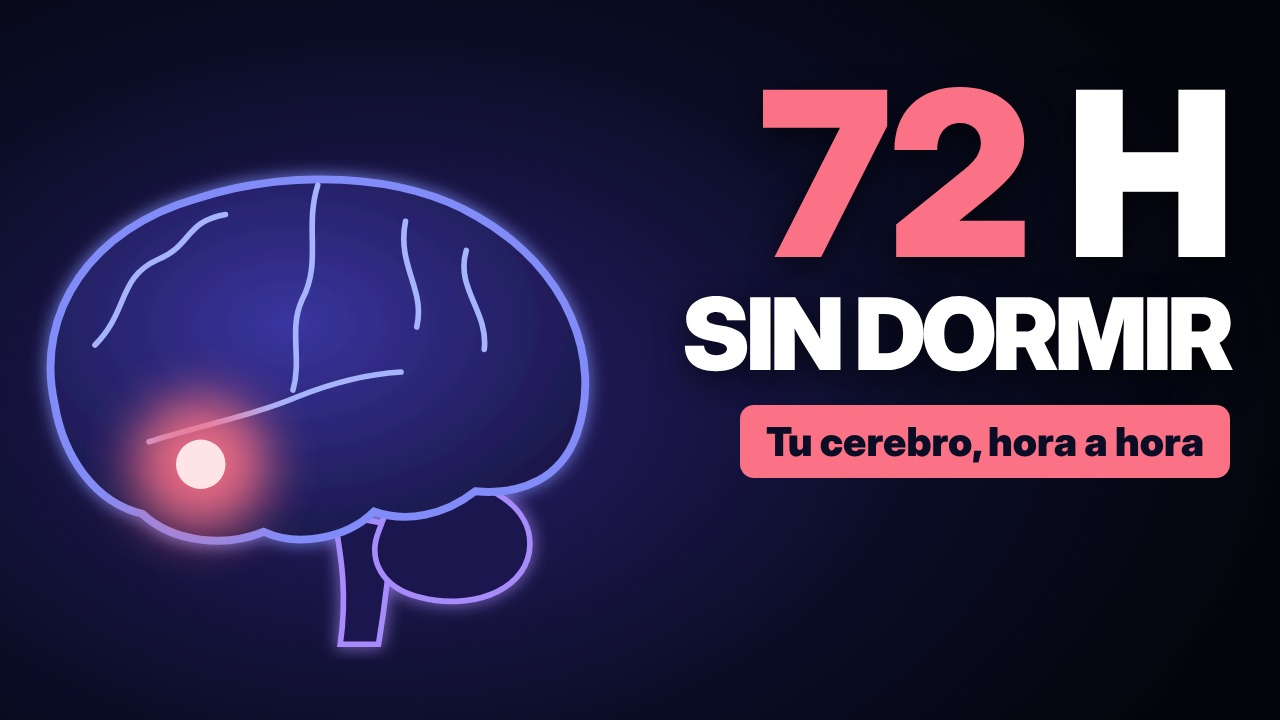
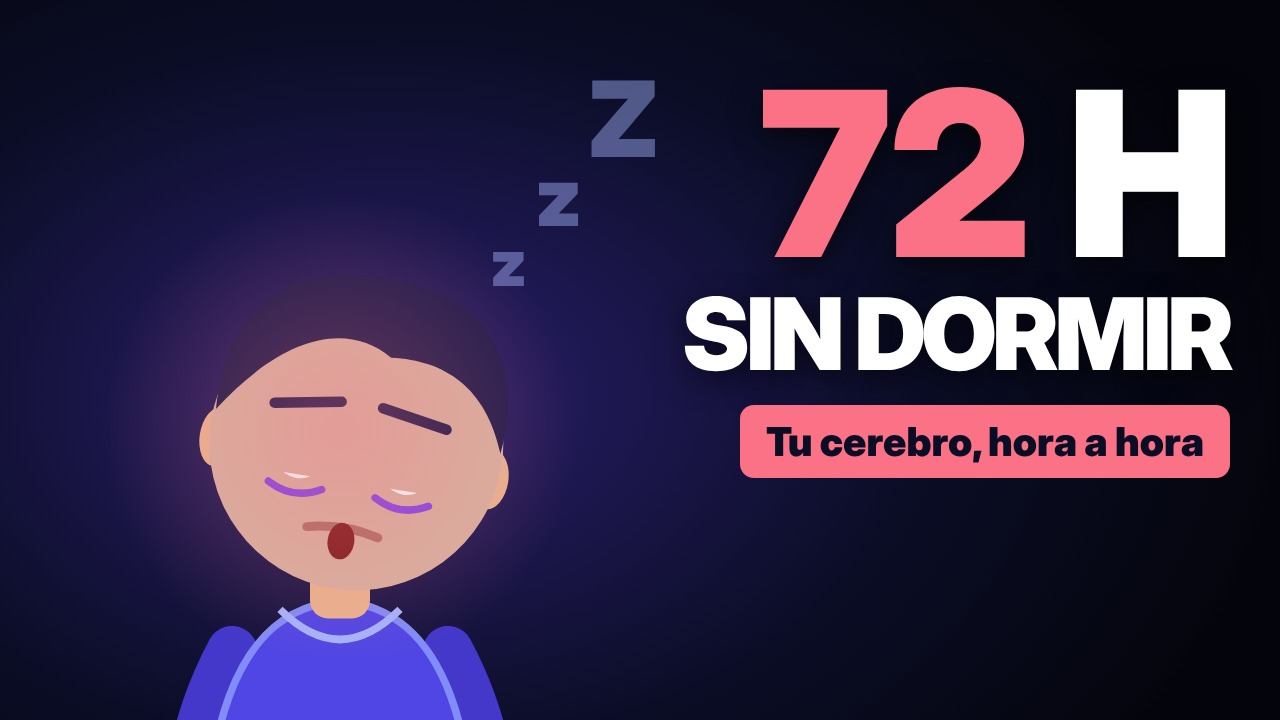
Vídeo 001 v3: 8 min, ganxo i miniatura amb protagonista, música més baixa, Short 4
Claude-Session: https://claude.ai/code/session_018pjyXYUKtseoMZzFivXoAv

Changed region(s): [[0.0312, 0.2139, 0.4688, 1.0], [0.4375, 0.0917, 0.5312, 0.2444]]

diff --git a/motor/lib.js b/motor/lib.js
@@ -433,7 +433,9 @@
     const hold = E('div', 'position:absolute;left:250px;top:230px'); hold.innerHTML = personSVG(500); el.appendChild(hold);
     const c = col(sc.color || (sc.mood === 'angry' ? 'red' : (sc.mood === 'happy' || sc.mood === 'sleep') ? 'cyan' : 'violet'));
     const hd = header(el, sc.label, sc.sub, c, 1000, 420, 800);
-    return { el, render(lt) { const a = eo(prog(lt, 0, .6)); hold.style.opacity = a; hold.style.transform = `translateY(${(1 - a) * 40}px)`; personRender(hold.firstChild, lt, sc.fatigue != null ? sc.fatigue : (sc.hour || 0) / 72, sc.mood || 'ok'); hd(lt); } };
+    const big = sc.big ? E('div', `position:absolute;left:1000px;top:600px;color:#fff;font-size:220px;font-weight:900;letter-spacing:-6px;line-height:1;text-shadow:0 0 50px ${c}88;font-variant-numeric:tabular-nums`, sc.big) : null;
+    if (big) el.appendChild(big);
+    return { el, render(lt) { const a = eo(prog(lt, 0, .6)); hold.style.opacity = a; if (big) { enter(big, lt, .5, 30); big.style.opacity = (+big.style.opacity || 0) * (Math.floor(lt * 2) % 2 ? .55 : 1); } hold.style.transform = `translateY(${(1 - a) * 40}px)`; personRender(hold.firstChild, lt, sc.fatigue != null ? sc.fatigue : (sc.hour || 0) / 72, sc.mood || 'ok'); hd(lt); } };
   };
 
   S.endcard = (sc) => {
@@ -510,7 +512,7 @@
       const hk = document.querySelector('#vtop .hk'); if (hk) { const a = eo(prog(t, T0, .6)); hk.style.transform = `scale(${.85 + .15 * back(prog(t, T0, .6))})`; hk.style.opacity = a; }
       const W2 = window.__words; let k = W2.findIndex(w => t >= w.t0 && t < w.t1); if (k < 0) k = W2.findIndex(w => w.t0 > t) - 1;
       if (k >= 0) { const st = Math.floor(k / 5) * 5; const chunk = W2.slice(st, st + 5).filter(w => w.line === W2[k].line);
-        document.getElementById('vcap').innerHTML = '<div>' + chunk.map(w => `<span style="display:inline-block;margin:0 .14em;${w === W2[k] ? `color:${C.yellow};transform:scale(1.08)` : ''}">${w.w}</span>`).join('') + '</div>'; }
+        document.getElementById('vcap').innerHTML = '<div>' + chunk.map(w => `<span style="display:inline-block;margin:0 .17em;${w === W2[k] ? `color:${C.yellow};text-shadow:0 0 24px ${C.yellow}88` : ''}">${w.w}</span>`).join('') + '</div>'; }
       if (t > T1 - 2.6) document.getElementById('vcap').innerHTML = `<div style="color:${C.cyan}">Video completo en el canal ▶</div>`;
     }
   }
@@ -529,5 +531,5 @@
     for (let i = 0; i < pts.length; i++) for (let j = i + 1; j < pts.length; j++) { const d = Math.hypot(pts[i].x - pts[j].x, pts[i].y - pts[j].y); if (d < 150) { cx.strokeStyle = `rgba(129,140,248,${(1 - d / 150) * .13})`; cx.beginPath(); cx.moveTo(pts[i].x, pts[i].y); cx.lineTo(pts[j].x, pts[j].y); cx.stroke(); } }
     pts.forEach(p => { cx.fillStyle = `rgba(165,180,252,${.3 + .2 * Math.sin(t * 2 + p.ph)})`; cx.beginPath(); cx.arc(p.x, p.y, p.r, 0, 6.28); cx.fill(); });
   }
-  window.Motor = { build, render, S };
+  window.Motor = { build, render, S, personSVG, personRender };
 })();

diff --git a/motor/thumbnail.html b/motor/thumbnail.html
@@ -8,12 +8,16 @@ html,body{margin:0;width:1280px;height:720px;overflow:hidden;font-family:'Inter 
 .tag{display:inline-block;margin-top:26px;padding:12px 26px;border-radius:14px;background:var(--acc);color:#0b0d26;font-weight:900;font-size:40px}
 </style></head><body>
 <div id="brain"></div><div id="t"></div>
+<script src="lib.js"></script>
 <script>
 // window.THUMB = {l1, l1acc, l2, tag, acc}
 function make(T){
   document.body.style.setProperty('--acc', T.acc||'#FB7185');
   document.getElementById('t').innerHTML = `<div class="big" style="font-size:${T.s1||210}px"><span class="acc">${T.l1acc||''}</span>${T.l1||''}</div><div class="big" style="font-size:${T.s2||92}px;margin-top:12px">${T.l2||''}</div>${T.tag?`<div class="tag">${T.tag}</div>`:''}`;
   const P={cer:'M84,252 C66,170 118,96 210,70 C290,44 392,46 460,86 C540,132 572,212 548,280 C534,318 500,334 458,330 C430,352 396,358 368,348 C344,372 300,380 270,366 C236,380 190,376 162,350 C120,340 92,300 84,252 Z',cb:'M418,318 C468,318 512,344 506,384 C500,420 452,436 408,424 C376,416 362,392 372,366 C380,342 396,320 418,318 Z',bs:'M332,350 C340,392 344,424 338,466 L372,466 C378,430 382,398 384,360 Z',g:'M168,286 C220,270 262,262 300,246 C330,234 360,226 392,224 M318,58 C306,96 322,126 304,160 C292,186 304,212 296,240 M120,200 C150,170 140,140 176,124 C206,112 200,90 236,84 M396,90 C388,130 414,150 406,184 M450,116 C440,150 470,170 466,204'};
+  if(T.person){const b=document.getElementById('brain');b.style.cssText='position:absolute;left:40px;top:70px';
+    b.innerHTML=`<div style="position:absolute;left:60px;top:120px;width:480px;height:480px;border-radius:50%;background:radial-gradient(${T.acc||'#FB7185'}55,transparent 70%)"></div>`+Motor.personSVG(600);
+    Motor.personRender(b.lastElementChild,0.3,T.person.fatigue??.9,T.person.mood||'tired');return;}
   document.getElementById('brain').innerHTML=`<svg width="720" height="540" viewBox="0 0 640 480"><defs><filter id="g" x="-50%" y="-50%" width="200%" height="200%"><feGaussianBlur stdDeviation="7" result="b"/><feMerge><feMergeNode in="b"/><feMergeNode in="SourceGraphic"/></feMerge></filter><filter id="bb" x="-200%" y="-200%" width="500%" height="500%"><feGaussianBlur stdDeviation="22"/></filter><radialGradient id="f" cx="45%" cy="40%" r="70%"><stop offset="0" stop-color="#3a35a0"/><stop offset="1" stop-color="#16143f"/></radialGradient></defs>
   <g filter="url(#g)"><path d="${P.bs}" fill="#1d1450" stroke="#A78BFA" stroke-width="5"/><path d="${P.cb}" fill="#1d1450" stroke="#A78BFA" stroke-width="5"/><path d="${P.cer}" fill="url(#f)" stroke="#818CF8" stroke-width="7"/><path d="${P.g}" fill="none" stroke="#A5B4FC" stroke-width="5" stroke-linecap="round"/></g>
   ${T.hot?`<circle cx="${T.hot[0]}" cy="${T.hot[1]}" r="60" fill="${T.acc}" filter="url(#bb)" opacity=".9"/><circle cx="${T.hot[0]}" cy="${T.hot[1]}" r="22" fill="#FFE4E6"/>`:''}</svg>`;

diff --git a/motor/render_video.py b/motor/render_video.py
@@ -84,7 +84,7 @@ def mix(vdir, V, starts, total, t_off, video_in, out):
     wavfile.write(str(vdir / 'music.wav'), SR, (np.stack([mus, mus], 1) * 32767 * .9).clip(-32767, 32767).astype(np.int16))
     # la música baixa sola quan parla la veu (sidechain)
     fc = ('[1:a]aresample=44100,asplit=2[v1][v2];'
-          '[3:a]volume=0.5[mu];[mu][v1]sidechaincompress=threshold=0.02:ratio=8:attack=20:release=400[duck];'
+          '[3:a]volume=0.24[mu];[mu][v1]sidechaincompress=threshold=0.015:ratio=10:attack=15:release=500[duck];'
           '[2:a]volume=1.0[fx];[v2][duck][fx]amix=inputs=3:duration=first:normalize=0,loudnorm=I=-14:TP=-1.5:LRA=11[a]')
     subprocess.run(['ffmpeg', '-y', '-loglevel', 'error', '-i', str(video_in), '-ss', f'{t_off:.3f}', '-t', f'{total:.3f}', '-i', str(vdir / 'voz.mp3'),
                     '-i', str(vdir / 'sfx.wav'), '-i', str(vdir / 'music.wav'), '-filter_complex', fc,

diff --git a/CLAUDE.md b/CLAUDE.md
@@ -8,7 +8,7 @@ Parla-li en **català**. Ell no vol haver de fer res excepte aprovar la setmana 
 - Canal YouTube: «Cuerpo al límite» · platformAccountId `UCBW01NZn4nRgxc_-gKPTY2Q`
 - vidIQ: pla Boost (2.000 crèdits/mes, es renoven el dia 23). **Pressupost: ≤ 900 crèdits per setmana.**
 - Veu: vidIQ `vidiq_voiceover_generate`, voiceId **`EK54is7sa3aPFLD9BwCC`** (Francisco, llatí neutre). Sempre amb `scriptLines` (una línia = una escena).
-- Música: `marca/musica_fondo.mp3` (generada amb vidIQ el 23/11/2026), en bucle i amb *ducking* automàtic sota la veu. No en generis més; si el fitxer falta, el render sintetitza un fons propi.
+- Música: `marca/musica_fondo.mp3` (generada amb vidIQ el 23/11/2026), en bucle i amb *ducking* automàtic sota la veu (≈ 16 dB per sota de la veu mentre parla; no la pugis). No en generis més; si el fitxer falta, el render sintetitza un fons propi.
 - Efectes de so: el render els posa sols segons el tipus d'escena (whoosh als canvis, tic-tac a `clock`, blips als comptadors, batecs a `amygdala`, cop al zoom de mitja escena).
 - Les URL de `assets.vidiq.com` es poden baixar amb `curl` des d'aquí.
 
@@ -29,7 +29,8 @@ Compara les setmanes 1–4 amb les 5–8 a `metriques.md` (vistes per vídeo, su
 ## Feina de cada execució setmanal (2 vídeos llargs + 4–6 Shorts)
 1. **Temes**: agafa els 2 primers temes pendents de `temas.md` (alterna línies H/C/E). Fes 1 `vidiq_outliers` (es, long, threeMonths, maxSubscribers 100000) per confirmar que el tema encara funciona i per inspirar el títol.
 2. **Guió** → `videos/NNN-slug/video.json` (copia l'estructura de `videos/001-72h-sin-dormir/video.json`):
-   - 35–45 línies, **6.000–7.000 caràcters** (≈ 8 minuts; a partir de 8 min YouTube permet anuncis a mig vídeo).
+   - 45–55 línies, **7.900–8.300 caràcters** (la veu fa ≈ 16 caràcters/s, així que surten ≈ 8:05; **el vídeo ha de passar de 8:00** perquè YouTube permeti anuncis a mig vídeo; comprova `total` a `timings.json` i, si no hi arriba, afegeix una frase).
+   - Ganxo: la primera escena és el protagonista en una situació concreta (p. ex. `persona` amb `big: "04:00"`), i a la línia 3–4 promet una sorpresa per al final (un mite, una dada) i compleix-la.
    - Estructura: ganxo amb una dada o història real (0–15 s) → promesa («hora a hora», «lo que dice la ciencia de verdad») → explicació → clímax → part positiva / què fer → tancament «suscríbete».
    - **Rigor**: cada dada numèrica ha de venir d'una font real (revista revisada per experts o organisme oficial) i anar a `sources`. Si no estàs segur d'una xifra, no la posis. Diferencia estudis en animals. Res de consells mèdics personalitzats ni de mites (l'angle del canal és desmuntar mites).
    - Espanyol llatí neutre: «manejar» (no «conducir un coche»), «enojarse», «se te antoja», sense «vale» ni «vosotros».
@@ -37,16 +38,17 @@ Compara les setmanes 1–4 amb les 5–8 a `metriques.md` (vistes per vídeo, su
    - **Protagonista** (`persona`: `hour` o `fatigue` 0–1, `mood` ok|tired|angry|sleep|happy, `label`, `sub`, `color`): posa'l 3–5 cops per vídeo en els moments clau (inici, punt de gir, clímax, recuperació). El cap del comptador d'hores també és la seva cara.
    - **Ritme**: un canvi visual cada 3–4 s com a màxim. Si una línia dura més de 8 s, parteix-la en dues línies amb escenes diferents. El motor ja fa moviments de càmera i un zoom a mitja escena. **Si un tema necessita un òrgan o gràfic nou (cor, fetge, pulmons, ronyó, estómac, mapa…), afegeix un tipus d'escena nou i reutilitzable a `lib.js`** amb el mateix estil (fons fosc, línies brillants, colors de la paleta `C`).
    - Afegeix `title` (≤ 100 caràcters, amb ganxo), `short_title` i `thumb` (vegeu el 001).
-3. **Veu**: `vidiq_voiceover_generate` amb `scriptLines` → desa `timings.json` (`audioUrl`, `total`, `starts` = startSeconds de cada línia) → `curl -o videos/NNN/voz.mp3 <audioUrl>`.
+3. **Veu**: `vidiq_voiceover_generate` amb `scriptLines` (màxim 50 línies per crida: si n'hi ha més, fes dues crides tallant on la suma de caràcters de cada meitat quedi just per sota d'un múltiple de 1.000 —es cobra per cada 1.000 arrodonit a l'alça—, uneix els MP3 amb 0,5 s de silenci entre mig i 1,5 s al final, i suma l'offset als `starts` de la segona meitat) → desa `timings.json` (`audioUrl`, `total`, `starts` = startSeconds de cada línia) → `curl -o videos/NNN/voz.mp3 <audioUrl>`.
 4. **Prova visual**: `python3 motor/render_video.py videos/NNN --stills t1,t2,…` (un fotograma per escena), fes un full de contactes i **mira'l**: res tallat, res tapant el comptador d'hores de dalt, textos llegibles. Corregeix i repeteix.
 5. **Render**: `nohup python3 motor/render_video.py videos/NNN > videos/NNN/render.log 2>&1 &` (≈ 5 min de render per minut de vídeo; vigila el log). Surt `video.mp4`.
-6. **Miniatura**: `python3 motor/make_thumb.py videos/NNN` → `thumb.jpg`. Mira-la.
+6. **Miniatura**: `python3 motor/make_thumb.py videos/NNN` → `thumb.jpg`. Mira-la. Per defecte porta el protagonista (`thumb.person: {fatigue, mood}`) a l'esquerra i 2–3 paraules grans a la dreta; sense `person` surt el cervell.
 7. **Shorts** (2–3 per vídeo, 25–55 s, trams que s'entenguin sols): vertical nadiu 1080×1920 amb subtítols paraula a paraula i el protagonista: `python3 motor/render_video.py videos/NNN --short <línia_ini> <línia_fi> "<ganxo>" short1` (prova abans amb `--stills 2,15` al final i mira els fotogrames). `make_short.py` queda obsolet.
 8. **Pujar**: `bash motor/publish_media.sh videos/NNN/video.mp4 videos/NNN/thumb.jpg videos/NNN/short1.mp4 …` → URL públiques → `vidiq_video_upload(url=…)` per a cada vídeo (uploadId) i `vidiq_upload_image(image=<url thumb>)` (imageId).
 9. **Esborranys** amb `vidiq_social_post_draft_create` (destinació YOUTUBE, el platformAccountId de dalt, `privacyStatus: "public"`, `categoryId: 27` Educació, `publishAt` programat):
    - Vídeos llargs: dimarts i divendres a les **00:00 UTC** (18:00 Mèxic, 19:00 Colòmbia, 21:00 Argentina: 2–3 h abans del pic d'audiència). Shorts: un cada dia a les **22:00 UTC** (16:00 Mèxic, sortida d'escola/feina).
    - Descripció: 2–3 frases de ganxo + capítols (`00:00 …`, a partir de `timings.json`; el primer ha de ser 00:00 i mínim 3) + «Fuentes:» amb la llista + «Contenido divulgativo; no sustituye el consejo médico.» + 3 hashtags.
    - Tags: 10–15 en castellà. Miniatura: `thumbnailImageId`.
+   - Si canvies el vídeo d'un esborrany amb `vidiq_social_post_draft_update`, a YouTube es perd el `publishAt`: torna'l a enviar i comprova `scheduledFor` abans d'ensenyar-ho al Manel.
    - **Cada Short també a Instagram i TikTok**, en un esborrany a part (mateix `uploadId`, mateix `publishAt` que a YouTube) amb dues destinacions:
      - INSTAGRAM `platformAccountId: "40152129084402422"` (@cuerpoallimite_)
      - TIKTOK `platformAccountId: "_000JHie2bTBaugdZ0FUGo0FqsRC32tg5395"` amb `privacyLevel: "PUBLIC_TO_EVERYONE"`, `allowComment: true`, `musicUsageConfirmed: true`, `isAiGenerated: true` (opcions triades pel Manel el 23/11/2026; la veu és d'IA).

diff --git a/registre.md b/registre.md
@@ -5,3 +5,4 @@
 | 2026-11-23 | 001 · ¿Qué le pasa a tu cuerpo y a tu cerebro si no duermes 72 horas? (5:02) | 3 | ~175 (inclou revisió del nínxol) |
 | 2026-11-23 | Publicat (programat): vídeo 001 24/11 00:00 UTC · youtu.be/yZrUMXY36OA; Shorts 24-26/11 22:00 UTC | | |
 | 2026-11-23 | v2 del 001: protagonista, càmera, música vidIQ, SFX, Shorts verticals nadius (pendent OK) | 3 | ~70 (música 25 + compose 43) |
+| 2026-11-23 | v3 del 001: 8:01, ganxo amb protagonista, 17 línies noves amb fonts, miniatura amb protagonista, música −16 dB, Short 4 (mite) | 4 | +224 (veu) · total avui ~290 |
